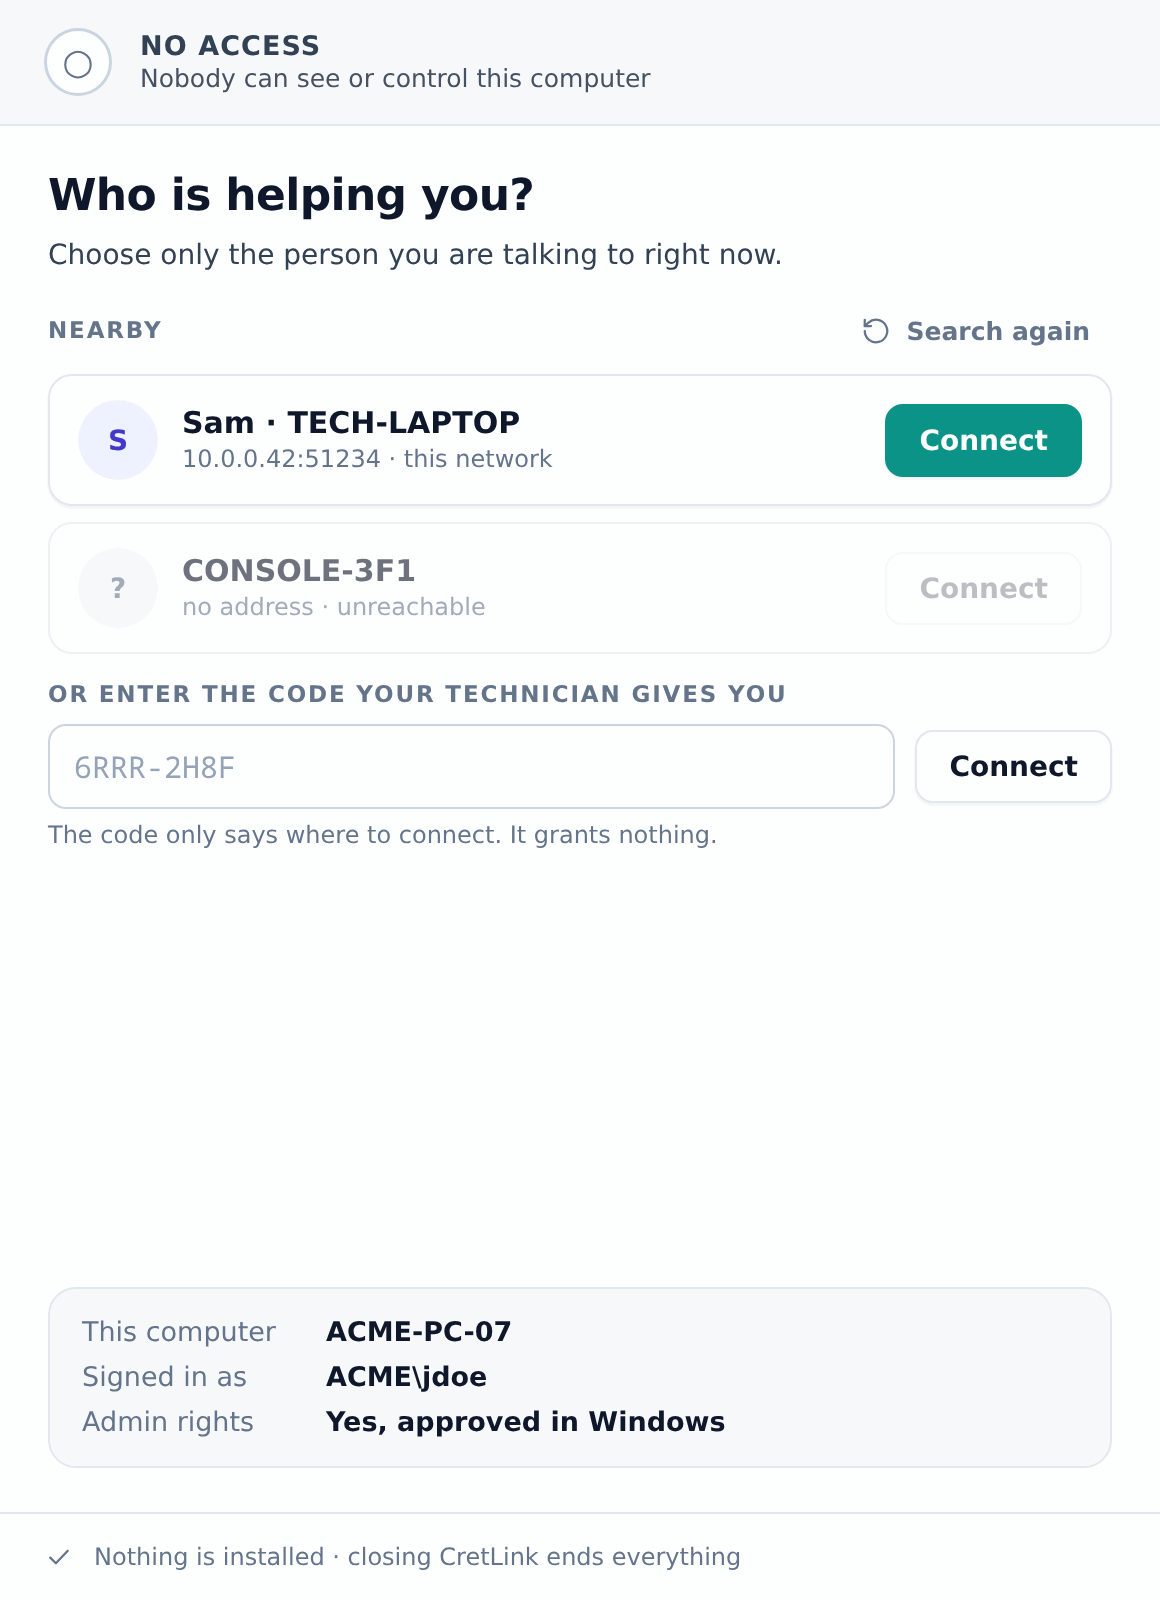
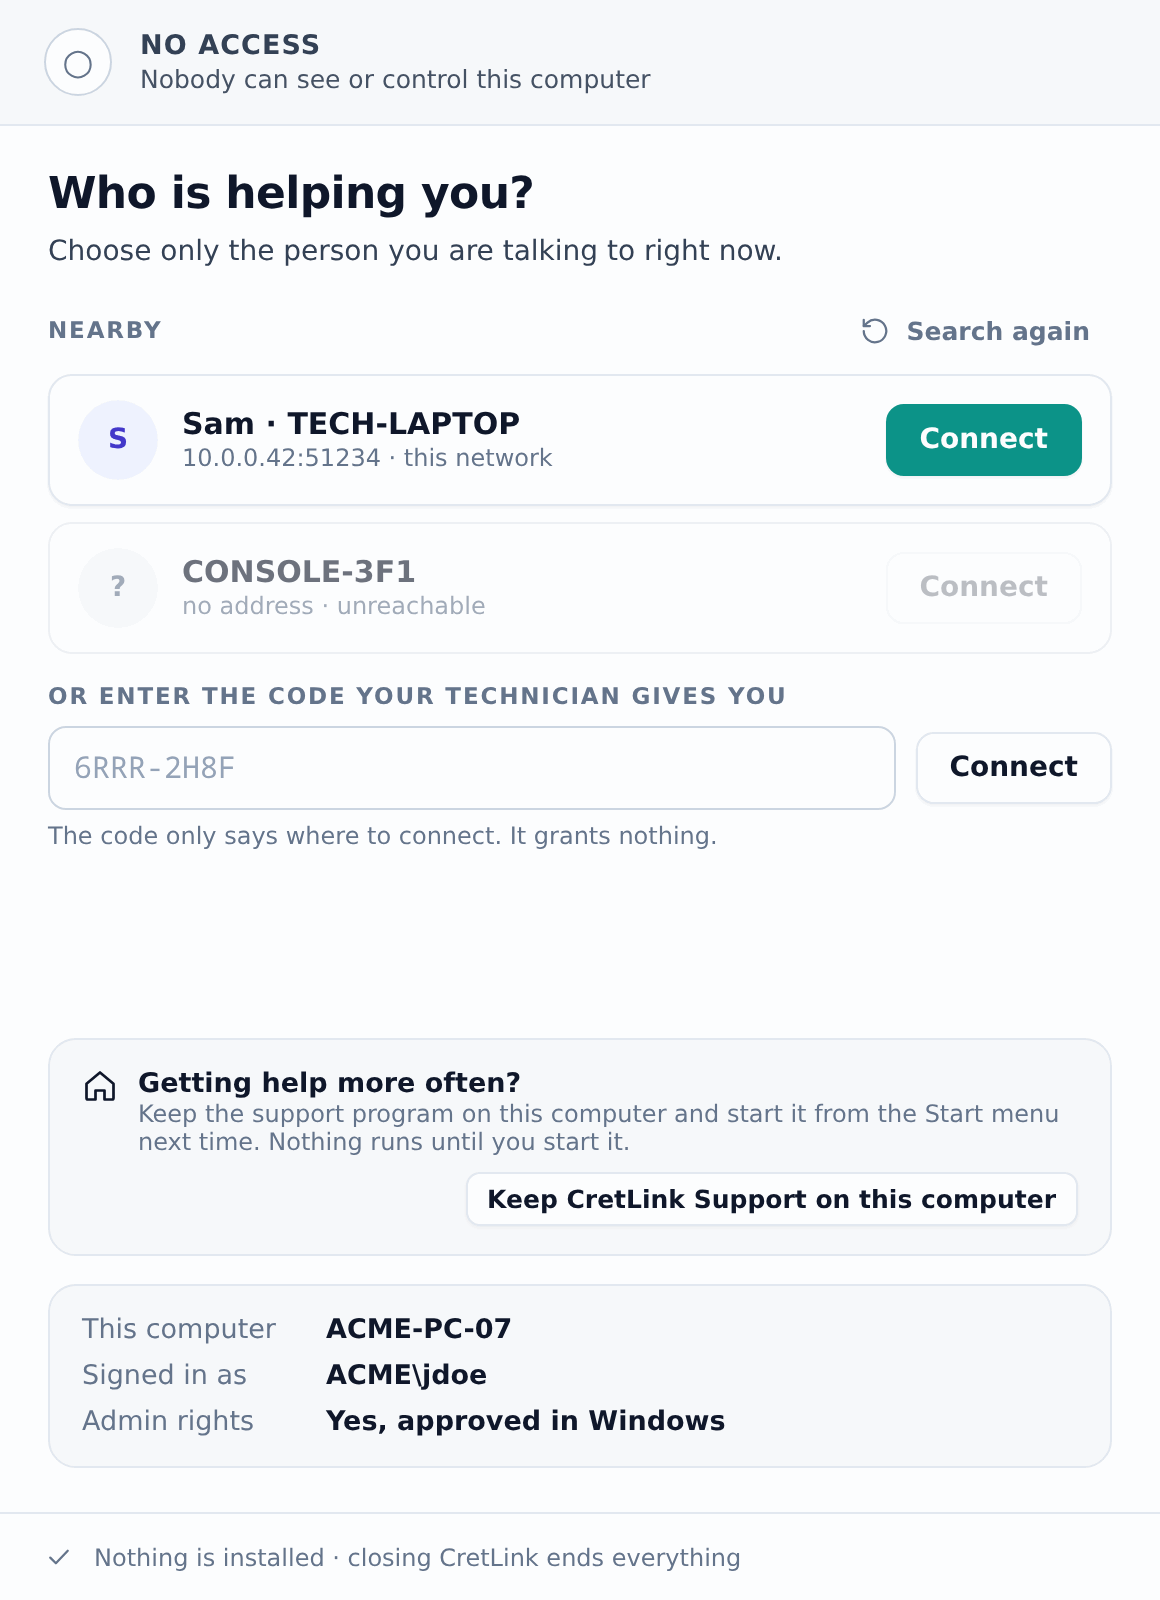
docs: the site describes the relay, the file explorer and the kept support program (ST-M011-002) (#26)
The documentation site describes what the coming release carries: the relay
in the application, the file explorer, the customer copy and the support
program that a customer keeps.

- Host your own relay: three steps with commands that were run against the
  image built from this tree, what one key per customer is for, and how a
  copy learns its relay.
- Help someone: the waiting screen with both routes, the relay code on both
  screens, and the file explorer.
- Get started: how a technician makes a customer copy, and how a customer
  keeps the support program, with what that adds and what it never adds.
- Security: a relay only passes the session on; what a kept program is and
  is not.
- Nothing is marked as planned any more for what the release carries.
- Nine pictures of the screens from the application's own development
  pages, with sample data only.

Verified: the site's build, its tests and its link check. Not verified: the
name of the image in the registry, and the pictures against the real
Windows program.

diff --git a/website/src/styles/custom.css b/website/src/styles/custom.css
@@ -153,6 +153,14 @@ h1, h2, h3, h4 { letter-spacing: -0.02em; }
 @media (max-width: 40rem) {
   .shots { grid-template-columns: 1fr; }
 }
+/* A narrow screenshot with what it means beside it, in two lists. */
+.shots.keep { grid-template-columns: minmax(0, 1fr) minmax(0, 1.25fr); }
+.keep-lists { display: grid; gap: 1rem; }
+.keep-lists .lane ul { margin: 0; padding-left: 1.2rem; font-size: 0.95rem; }
+.keep-lists .lane li { margin: 0.35rem 0; }
+@media (max-width: 40rem) {
+  .shots.keep { grid-template-columns: 1fr; }
+}
 
 /* Short facts in a row of cards. */
 .facts {
